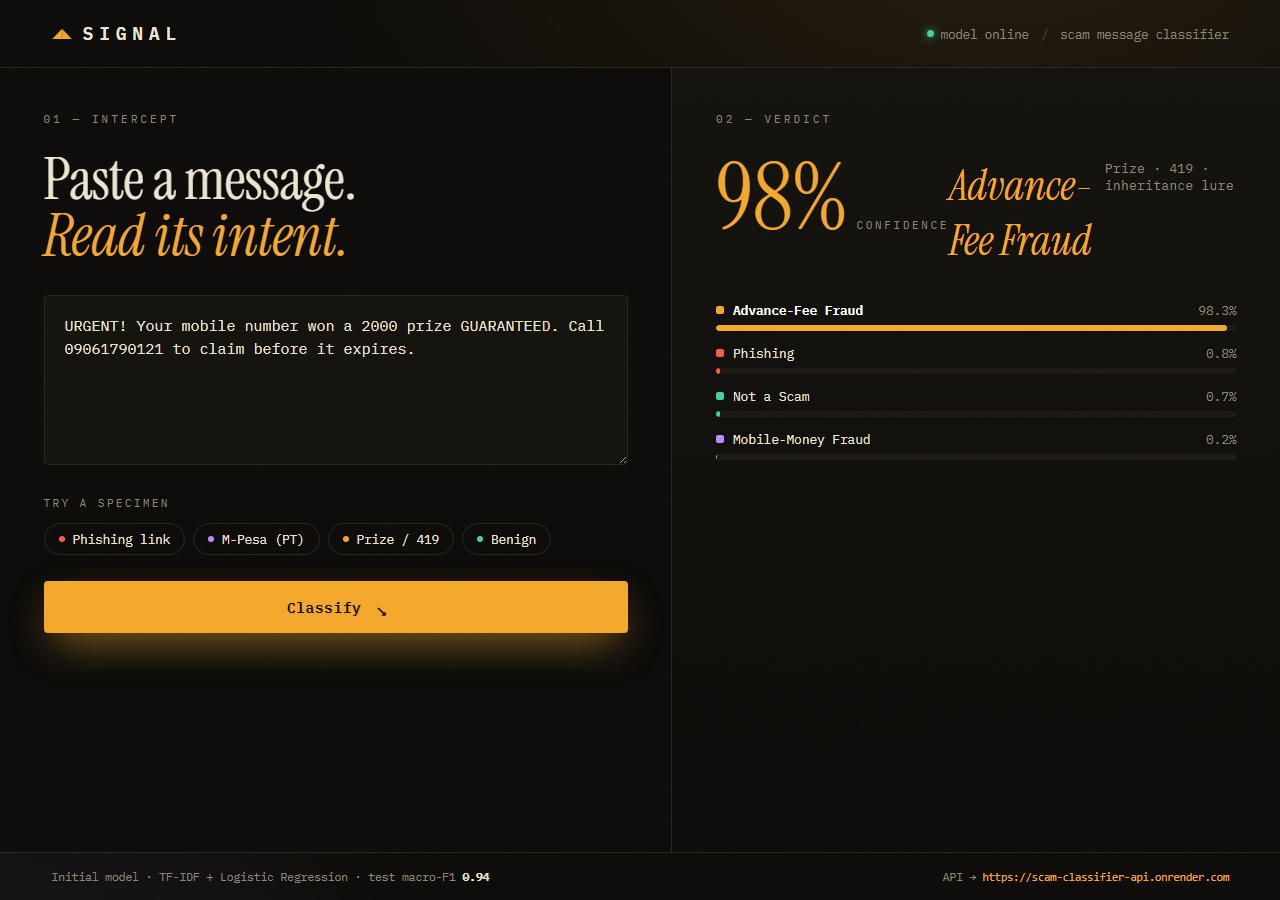
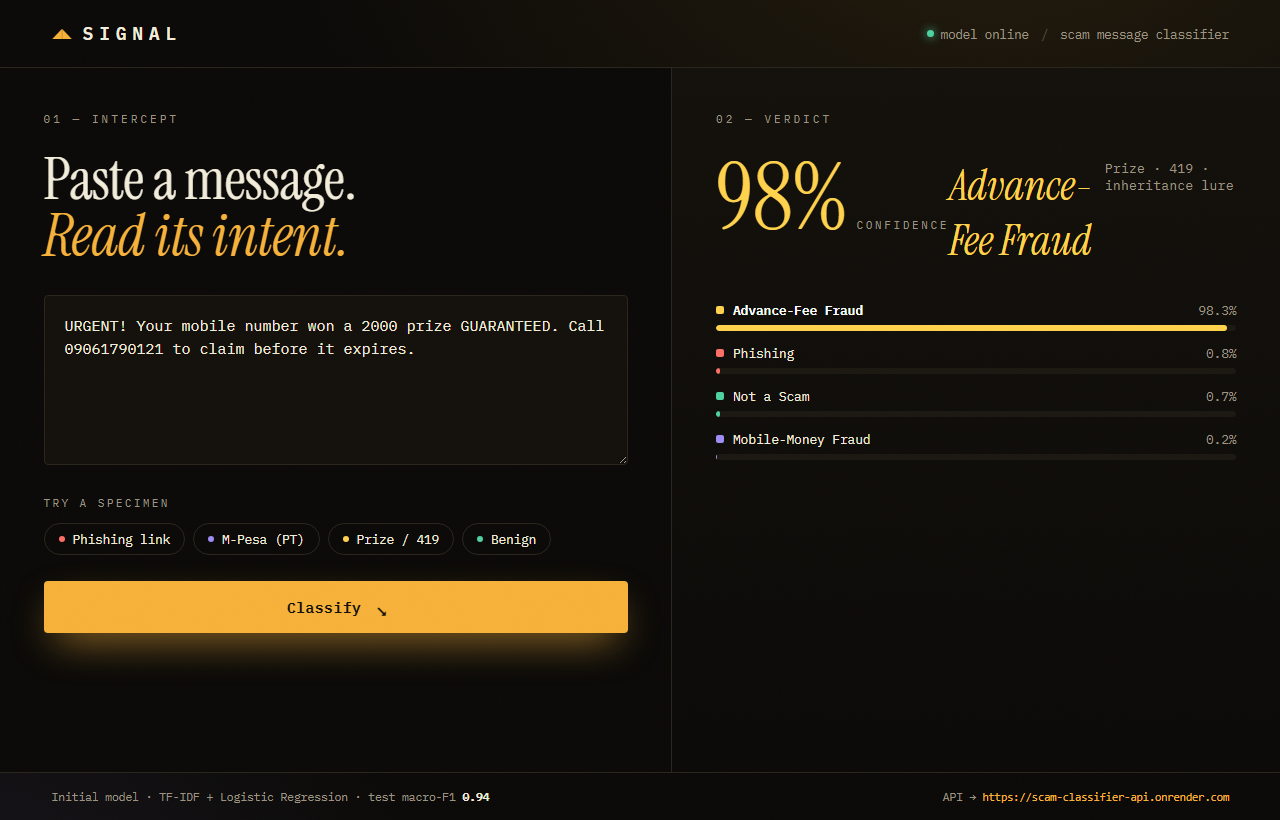
Refine SIGNAL palette: deeper warm-dark, distinct per-class hues

diff --git a/frontend/styles.css b/frontend/styles.css
@@ -1,16 +1,16 @@
 :root{
-  --bg:#0d0c0a;
-  --surface:#15130e;
-  --surface-2:#1d1a13;
-  --line:#2c281e;
-  --ink:#ece4d2;
-  --muted:#8c8674;
-  --amber:#f4a72c;
-  --c-phishing:#ff5a4d;
-  --c-advance_fee_fraud:#f4a72c;
-  --c-mobile_money_fraud:#b98cff;
-  --c-not_a_scam:#43d39a;
-  --shadow:0 30px 70px -30px rgba(0,0,0,.8);
+  --bg:#0b0a08;
+  --surface:#14110c;
+  --surface-2:#1c1812;
+  --line:#2b261d;
+  --ink:#f1ebda;
+  --muted:#9c9380;
+  --amber:#f6b13a;                 /* brand accent (UI/CTA) */
+  --c-phishing:#fb6f66;            /* coral red    */
+  --c-advance_fee_fraud:#ffd24d;   /* lemon-gold (distinct from brand amber) */
+  --c-mobile_money_fraud:#9d8cf2;  /* periwinkle   */
+  --c-not_a_scam:#4fd1a0;          /* emerald mint */
+  --shadow:0 30px 70px -30px rgba(0,0,0,.85);
 }
 
 *{box-sizing:border-box;margin:0;padding:0}
@@ -18,8 +18,8 @@ html{-webkit-font-smoothing:antialiased}
 body{
   min-height:100vh;
   background:
-    radial-gradient(1200px 700px at 78% -10%, rgba(244,167,44,.10), transparent 60%),
-    radial-gradient(900px 600px at -5% 110%, rgba(185,140,255,.08), transparent 55%),
+    radial-gradient(1200px 700px at 78% -10%, rgba(246,177,58,.10), transparent 60%),
+    radial-gradient(900px 600px at -5% 110%, rgba(157,140,242,.08), transparent 55%),
     var(--bg);
   color:var(--ink);
   font-family:"IBM Plex Mono",ui-monospace,monospace;
@@ -73,7 +73,7 @@ textarea#message{
   padding:18px 20px;transition:border-color .2s, box-shadow .2s;
 }
 textarea#message::placeholder{color:#6a6453}
-textarea#message:focus{outline:none;border-color:var(--amber);box-shadow:0 0 0 3px rgba(244,167,44,.12)}
+textarea#message:focus{outline:none;border-color:var(--amber);box-shadow:0 0 0 3px rgba(246,177,58,.12)}
 
 .examples{margin:22px 0 28px}
 .examples-label{font-size:11px;letter-spacing:.22em;text-transform:uppercase;color:var(--muted)}
@@ -92,9 +92,9 @@ textarea#message:focus{outline:none;border-color:var(--amber);box-shadow:0 0 0 3
   padding:16px 26px;cursor:pointer;width:100%;
   display:flex;align-items:center;justify-content:center;gap:12px;
   transition:transform .15s, box-shadow .25s, background .2s;
-  box-shadow:0 10px 30px -12px rgba(244,167,44,.6);
+  box-shadow:0 10px 30px -12px rgba(246,177,58,.6);
 }
-.run:hover{transform:translateY(-2px);box-shadow:0 16px 40px -12px rgba(244,167,44,.7)}
+.run:hover{transform:translateY(-2px);box-shadow:0 16px 40px -12px rgba(246,177,58,.7)}
 .run:active{transform:translateY(0)}
 .run:disabled{opacity:.55;cursor:wait}
 .run-arrow{transition:transform .25s}

diff --git a/frontend/app.js b/frontend/app.js
@@ -9,10 +9,10 @@ const API_BASE =
   "https://scam-classifier-api.onrender.com";
 
 const CATS = {
-  phishing:           { name: "Phishing",            color: "#ff5a4d", note: "Credential / link harvesting" },
-  advance_fee_fraud:  { name: "Advance-Fee Fraud",   color: "#f4a72c", note: "Prize · 419 · inheritance lure" },
-  mobile_money_fraud: { name: "Mobile-Money Fraud",  color: "#b98cff", note: "Wallet · PIN · agent / OTP" },
-  not_a_scam:         { name: "Not a Scam",          color: "#43d39a", note: "Benign message" },
+  phishing:           { name: "Phishing",            color: "#fb6f66", note: "Credential / link harvesting" },
+  advance_fee_fraud:  { name: "Advance-Fee Fraud",   color: "#ffd24d", note: "Prize · 419 · inheritance lure" },
+  mobile_money_fraud: { name: "Mobile-Money Fraud",  color: "#9d8cf2", note: "Wallet · PIN · agent / OTP" },
+  not_a_scam:         { name: "Not a Scam",          color: "#4fd1a0", note: "Benign message" },
 };
 
 const EXAMPLES = [
@@ -86,7 +86,7 @@ msg.addEventListener("keydown", (e) => {
 // ---- render ----
 function render(data) {
   const top = data.predicted_category;
-  const meta = CATS[top] || { name: top, color: "#f4a72c", note: "" };
+  const meta = CATS[top] || { name: top, color: "#ffd24d", note: "" };
 
   const verdict = $("verdict");
   verdict.style.setProperty("--vc", meta.color);
@@ -100,7 +100,7 @@ function render(data) {
   bars.innerHTML = "";
   const entries = Object.entries(data.scores || {}).sort((a, b) => b[1] - a[1]);
   entries.forEach(([cat, score], i) => {
-    const m = CATS[cat] || { name: cat, color: "#8c8674" };
+    const m = CATS[cat] || { name: cat, color: "#9c9380" };
     const row = document.createElement("div");
     row.className = "bar-row" + (cat === top ? " win" : "");
     row.style.setProperty("--bc", m.color);